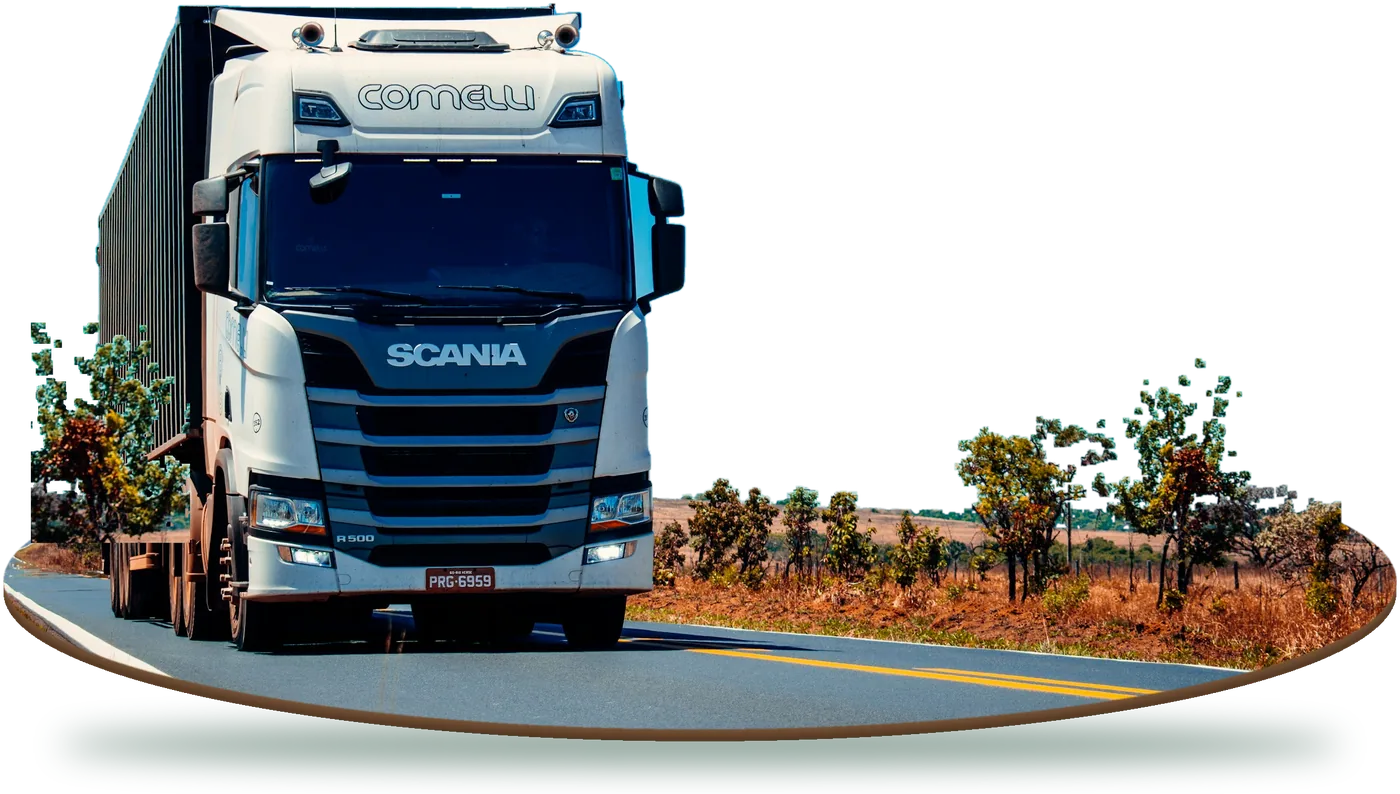
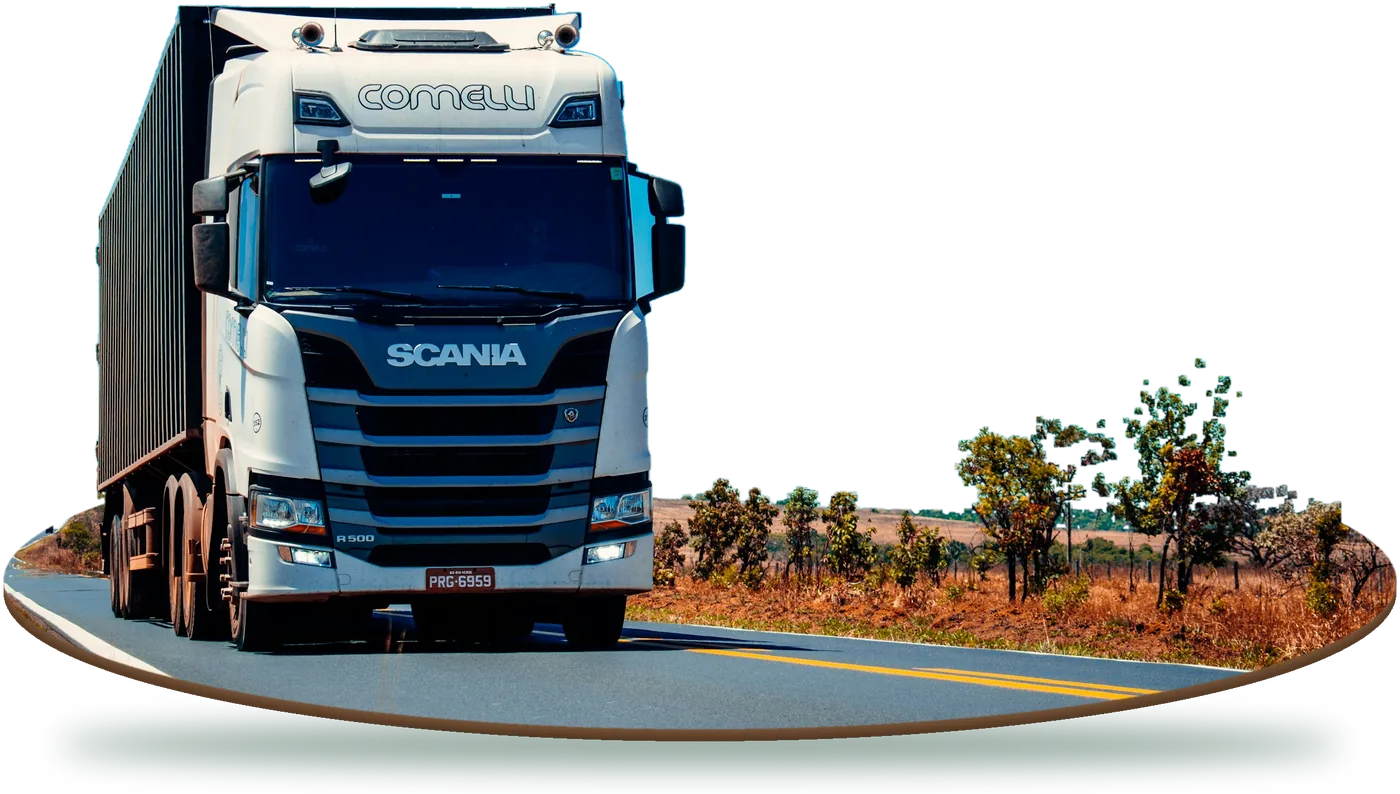
feat(sections): ventes et argent avec une personne chaleureuse, camion nettoyé
- ventes : la photo fournie (une vendeuse souriante encaisse un client),
  détourée — damier du fond retiré, comptoir, pot et sac gardés — et
  posée sur un socle vert dont la face avant cache le bas de la photo ;
- argent : une femme souriante, des billets à la main (photo Unsplash
  libre de droits), derrière une pile de grandes pièces d'euro dessinées
  qui cache le bas de la photo ;
- fournisseurs : l'arbre ajouté et le fouillis derrière la remorque, à
  gauche de l'îlot, sont retirés.

Changed region(s): [[0.0, 0.3929, 0.1536, 0.6952]]

diff --git a/src/features/dashboard-v2/DashboardV2Page.tsx b/src/features/dashboard-v2/DashboardV2Page.tsx
@@ -75,20 +75,22 @@ import { chiffreAffairesParJour } from "../../lib/ventes";
 /**
  * Les bannières des sections : des objets entiers, détourés, posés sur la
  * page avec leur ombre au sol, comme l'illustration des opérations — aucun
- * bord de photo ne se voit (`public/illustrations/`, photos Unsplash
- * libres de droits, sauf le stock fourni par la boutique).
+ * bord de photo ne se voit. Là où la photo coupait un sujet, un élément
+ * dessiné le porte : socle vert (ventes), pile de pièces (argent), îlot
+ * de route (fournisseurs). Photos fournies par la boutique (ventes,
+ * stock) ou Unsplash libres de droits (argent, fournisseurs).
  */
 const SCENE_VENTES: Scene = {
   src: "/illustrations/ventes.webp",
-  alt: "Deux sacs de courses en papier kraft.",
-  largeur: 900,
-  hauteur: 958,
+  alt: "Une vendeuse souriante encaisse un client au comptoir, posés sur un socle vert.",
+  largeur: 1200,
+  hauteur: 827,
 };
 const SCENE_ARGENT: Scene = {
   src: "/illustrations/argent.webp",
-  alt: "Un verre rempli de pièces d'où sort une jeune pousse.",
-  largeur: 569,
-  hauteur: 1120,
+  alt: "Une femme souriante tient une liasse de billets derrière une pile de grandes pièces d'euro.",
+  largeur: 716,
+  hauteur: 1419,
 };
 const SCENE_STOCK: Scene = {
   src: "/illustrations/stock.webp",
@@ -98,7 +100,7 @@ const SCENE_STOCK: Scene = {
 };
 const SCENE_FOURNISSEURS: Scene = {
   src: "/illustrations/fournisseurs.webp",
-  alt: "Un camion de livraison sur une route bordée d'arbres.",
+  alt: "Un camion de livraison sur un îlot de route bordée d'arbres.",
   largeur: 1400,
   hauteur: 794,
 };
